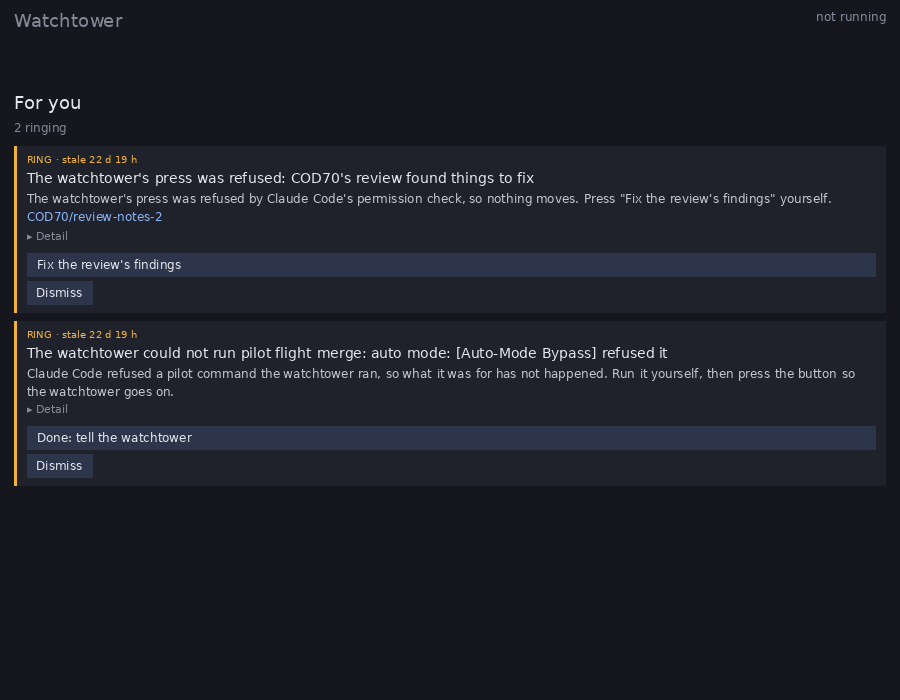
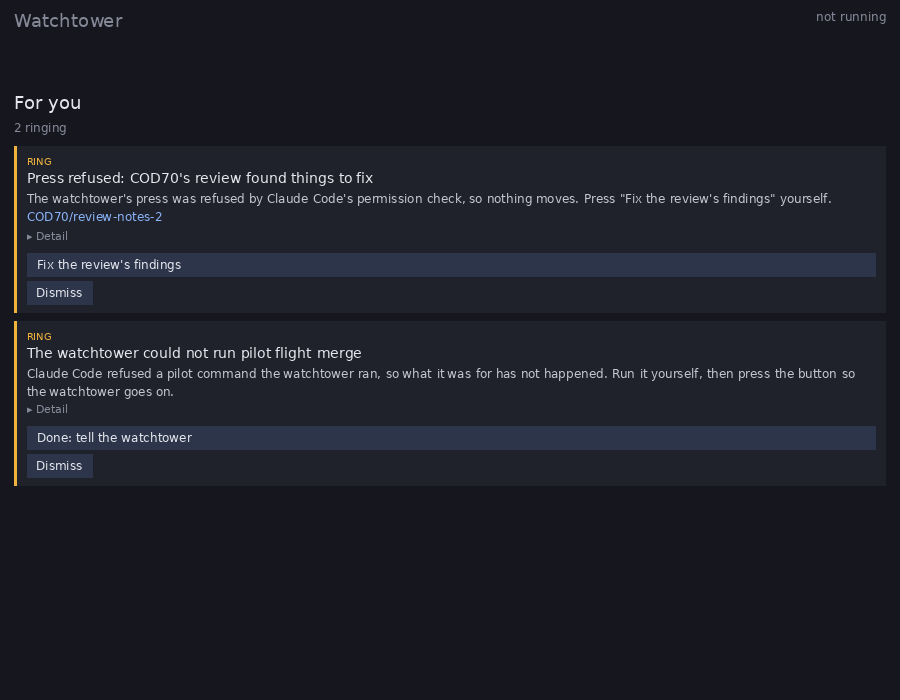
Round 4 review fixes for #988: the button reaches the current watchtower, quoted lines are no commands, short titles
- "Done: tell the watchtower" is a Tell to the watchtower target, which finds the watchtower current when it is pressed (the card may
  wait hours and the watchtower be replaced); the card always rings.
- The CLI counts as the command word only at a boundary outside quotes, so a quoted multi-line argument (a commit body with a line
  "Pilot is now…", a comment with "pilot answer …") is no command.
- The MCP road reads a value as words as McpServer does: an array (pilot answer's choice is Words) is its items, and array
  arguments are no longer dropped.
- Titles keep to 70: "The watchtower could not run pilot <command>", and a refused press is "Press refused: <title>" when it fits,
  else "Press refused: "<button>"", else "The watchtower's press was refused", with the card's own title in the detail.
- RingJudge: a ring verdict on a card that rang meanwhile neither adds its lead nor rewords it, and a wording asked before a card's
  title changed is not applied.
- Captures drawn a minute after the ring, not "stale 22 d".

Changed region(s): [[0.0311, 0.21, 0.5911, 0.27], [0.4044, 0.48, 0.7467, 0.51], [0.0311, 0.45, 0.0622, 0.48]]

diff --git a/src/Pilot.Node/Flights/Watchtower.Refused.cs b/src/Pilot.Node/Flights/Watchtower.Refused.cs
@@ -15,12 +15,18 @@ public sealed partial class Watchtower
     /// <summary>The ringing card of a pilot command of the watchtower that was refused, when it pressed no card's button.</summary>
     public const string RefusedKind = "watchtower-refused";
 
-    /// <summary>What the title of a card whose press was refused starts with.</summary>
-    public const string RefusedPrefix = "The watchtower's press was refused: ";
+    /// <summary>What the title of a card whose press was refused starts with, when the card's own title fits after it.</summary>
+    public const string RefusedPrefix = "Press refused: ";
+
+    /// <summary>The title of a card whose press was refused when its own title does not fit after <see cref="RefusedPrefix"/>.</summary>
+    public const string RefusedTitle = "The watchtower's press was refused";
+
+    // CardLint's longest title: the card's title is never cut, so a longer one is replaced, not shortened.
+    private const int MaxTitle = 70;
 
     private void Refused(string command, string reason)
     {
-        if (PilotVerb().Match(command) is not { Success: true } call)
+        if (PilotCall(command) is not { } call)
         {
             // Not the node's verb (a git call, a file outside its folder): the watchtower finds another way, and it is not a press.
             return;
@@ -45,10 +51,17 @@ public sealed partial class Watchtower
             var press = label is not null ? $"press \"{label}\" yourself"
                 : card.Choices.Length > 0 ? $"press the button it chose yourself ({string.Join(", ", card.Choices.Select(c => $"\"{c.Label}\""))})"
                 : "answer it yourself";
-            var was = card.Title.StartsWith(RefusedPrefix, StringComparison.Ordinal) ? card.Title[RefusedPrefix.Length..] : card.Title;
+            // The title says so in 70 characters: the prefix before the card's own title when it fits, else before the button, else the
+            // plain words; a card refused before keeps the title it was given then. A title that was replaced is kept in the detail.
+            var refusedBefore = card.Title.StartsWith(RefusedPrefix, StringComparison.Ordinal) || card.Title == RefusedTitle;
+            var title = refusedBefore ? card.Title
+                : (RefusedPrefix + card.Title).Length <= MaxTitle ? RefusedPrefix + card.Title
+                : label is not null && $"{RefusedPrefix}\"{label}\"".Length <= MaxTitle ? $"{RefusedPrefix}\"{label}\""
+                : RefusedTitle;
             var detail = WithoutLeads(card.Detail);
-            state.UpdateCard(card.Id, RefusedPrefix + was,
-                $"{WhatToDo}{press}. The watchtower pressed it at {at} and {reason} refused it, so nothing moves until you do."
+            var replaced = !refusedBefore && title != RefusedPrefix + card.Title ? $"\n\nThe card was: {card.Title}" : "";
+            state.UpdateCard(card.Id, title,
+                $"{WhatToDo}{press}. The watchtower pressed it at {at} and {reason} refused it, so nothing moves until you do.{replaced}"
                     + (string.IsNullOrWhiteSpace(detail) ? "" : "\n\n" + detail),
                 card.Choices, card.Link,
                 // The panel shows the summary, not the detail: it says the refusal, not the kind's usual sentence the watchtower was to act on.
@@ -63,13 +76,14 @@ public sealed partial class Watchtower
         var words = rest.Split((char[])[' ', '\t'], StringSplitOptions.RemoveEmptyEntries);
         var first = name == verb ? 0 : 1;
         var on = words.Length > first && !words[first].StartsWith('-') ? "/" + words[first].Trim('"', '\'') : "";
-        // The one press that moves it once the person has done it: the watchtower hears so and goes on from the result.
-        IReadOnlyList<CardChoice> choices = Current() is { } tower
-            ? [new CardChoice { Label = DoneMyselfLabel, Verb = Verbs.Say, Target = Verbs.SessionTarget(tower.Id), Args = [$"The person did it themselves after Claude Code refused your `pilot {name}`: carry on from what it did (pilot status, pilot cards)."] }]
-            : [];
-        state.RaiseCard(choices.Count > 0 ? CardBin.Ring : CardBin.ForYou, RefusedKind, $"{Verbs.WatchtowerTarget}/refused/{name.Replace(' ', '-')}{on}",
-            $"The watchtower could not run pilot {name}: {reason} refused it",
-            $"{WhatToDo}run it yourself, or do what it was for another way, then press \"{DoneMyselfLabel}\". Nothing it was meant to move moves until then.\n\nIt tried, at {at}:\n{command.Trim()}",
+        // The one press that moves it once the person has done it: told to the watchtower that is current when it is pressed (the card may
+        // wait hours, and the watchtower be replaced meanwhile), which goes on from the result.
+        IReadOnlyList<CardChoice> choices =
+            [new CardChoice { Label = DoneMyselfLabel, Verb = Verbs.Tell, Target = Verbs.WatchtowerTarget, Args = [$"The person did it themselves after Claude Code refused your `pilot {name}`: carry on from what it did (pilot status, pilot cards)."] }];
+        // The title is the command, short; what refused it is in the detail.
+        state.RaiseCard(CardBin.Ring, RefusedKind, $"{Verbs.WatchtowerTarget}/refused/{name.Replace(' ', '-')}{on}",
+            $"The watchtower could not run pilot {name}",
+            $"{WhatToDo}run it yourself, or do what it was for another way, then press \"{DoneMyselfLabel}\". It was refused by {reason}, so nothing it was meant to move moves until then.\n\nIt tried, at {at}:\n{command.Trim()}",
             choices);
         LogStream($"the watchtower's pilot {name} was refused ({reason}): a card rings");
     }
@@ -124,10 +138,34 @@ public sealed partial class Watchtower
 
     private const string WhatToDo = "What to do: ";
 
-    // The node's CLI as the command word (at the start, or after && ; | & ( or a line break, as PowerShell's & "…" calls it), by name or
-    // by a path to it, with or without .exe and quotes, and its verb: "pilot answer c1 1", & "C:/…/pilot.exe" flight merge PIL1 abc.
-    // Not a folder named pilot inside another command's words: "git -C C:/…/sharpastro/pilot push" is git's.
-    [GeneratedRegex(@"(?:^|[;&|(\r\n])\s*(?:&\s*)?(?:""(?:[^""\r\n]*[/\\])?pilot(?:\.exe)?""|'(?:[^'\r\n]*[/\\])?pilot(?:\.exe)?'|(?:[^\s""';&|()]*[/\\])?pilot(?:\.exe)?)\s+(?<verb>[a-z][a-z-]*)(?<rest>[^\r\n]*)", RegexOptions.IgnoreCase)]
+    // The node's CLI as the command word: at the start, or after an unquoted && ; | & ( or line break (as PowerShell's & "…" calls it).
+    // Not a folder named pilot inside another command's words ("git -C C:/…/sharpastro/pilot push" is git's), and not a line of a quoted
+    // argument (a "git commit -m" whose body has a line "Pilot is now quiet…", a gh comment's line "pilot answer c1 1").
+    private static Match? PilotCall(string command)
+    {
+        var quote = '\0';
+        for (var i = 0; i < command.Length; i++)
+        {
+            if ((i == 0 || (quote == '\0' && command[i - 1] is ';' or '&' or '|' or '(' or '\r' or '\n')) && PilotVerb().Match(command, i) is { Success: true } call)
+            {
+                return call;
+            }
+            var c = command[i];
+            if (quote != '\0')
+            {
+                quote = c == quote ? '\0' : quote;
+            }
+            else if (c is '"' or '\'')
+            {
+                quote = c;
+            }
+        }
+        return null;
+    }
+
+    // The CLI by name or by a path to it, with or without .exe and quotes, and its verb, from where PilotCall puts it: "pilot answer c1 1",
+    // & "C:/…/pilot.exe" flight merge PIL1 abc.
+    [GeneratedRegex(@"\G\s*(?:&\s*)?(?:""(?:[^""\r\n]*[/\\])?pilot(?:\.exe)?""|'(?:[^'\r\n]*[/\\])?pilot(?:\.exe)?'|(?:[^\s""';&|()]*[/\\])?pilot(?:\.exe)?)\s+(?<verb>[a-z][a-z-]*)(?<rest>[^\r\n]*)", RegexOptions.IgnoreCase)]
     private static partial Regex PilotVerb();
 
     [GeneratedRegex(@"^\s+(?<sub>[a-z][a-z-]*)(?=\s|$)")]

diff --git a/src/Pilot.Node.Tests/WatchtowerChatTests.Refused.cs b/src/Pilot.Node.Tests/WatchtowerChatTests.Refused.cs
@@ -65,12 +65,31 @@ public sealed partial class WatchtowerChatTests
         process.Emit(JsonSerializer.Serialize(new
         {
             type = "assistant",
-            message = new { role = "assistant", content = new object[] { new { type = "tool_use", id = "p1", name = "mcp__pilot__answer", input = new { choice = "1", why = "round-3", card = card.Id } } } },
+            message = new { role = "assistant", content = new object[] { new { type = "tool_use", id = "p1", name = "mcp__pilot__answer", input = new { choice = new[] { "1" }, why = "round-3", card = card.Id } } } },
         }));
         process.Emit(ShellResult("p1", AutoModeRefusal, error: true));
         await UntilAsync(() => _state.Cards(openOnly: true).Single(c => c.Id == card.Id).Bin == CardBin.Ring, "the card to ring");
 
+        // The choice as the schema advertises it (Words, an array of strings), with an option beside it, and the card before it.
         _state.Cards(openOnly: true).Single(c => c.Id == card.Id).Detail.ShouldNotBeNull().ShouldStartWith("What to do: press \"Fix the review's findings\" yourself.");
+    }
+
+    [Fact]
+    public async Task ACardWhoseTitleDoesNotFitAfterThePrefixGetsAShortOneAndKeepsItsOwnInTheDetail()
+    {
+        var process = await StreamIdleAsync();
+        const string Long = "PIL1234/a-rather-long-leg-name's worker has been idle for 3 min with 0 of 6 steps";
+        var card = _state.RaiseCard(CardBin.ForYou, "worker-idle", "flight/PIL1234/a-rather-long-leg-name", Long, null,
+            [new CardChoice { Label = "Nudge it to finish", Verb = Verbs.Say, Target = "session/s1" }]);
+
+        process.Emit(ShellCall("l1", $"pilot answer {card.Id} 1"));
+        process.Emit(ShellResult("l1", AutoModeRefusal, error: true));
+        await UntilAsync(() => _state.Cards(openOnly: true).Single(c => c.Id == card.Id).Bin == CardBin.Ring, "the card to ring");
+
+        var rung = _state.Cards(openOnly: true).Single(c => c.Id == card.Id);
+        rung.Title.ShouldBe(Watchtower.RefusedPrefix + "\"Nudge it to finish\"");
+        rung.Title.Length.ShouldBeLessThanOrEqualTo(70);
+        rung.Detail.ShouldNotBeNull().ShouldContain("The card was: " + Long);
     }
 
     [Fact]
@@ -88,6 +107,11 @@ public sealed partial class WatchtowerChatTests
         // The brief's own shape for git elsewhere, in this very repo: a folder named pilot is not the node's CLI.
         process.Emit(ShellCall("gitc", "git -C C:/Users/x/source/repos/sharpastro/pilot push origin main"));
         process.Emit(ShellResult("gitc", AutoModeRefusal, error: true));
+        // A quoted argument's lines are not commands: a commit body with a line "Pilot is now quiet…", a comment with "pilot answer …".
+        process.Emit(ShellCall("msg", "git commit -m \"Quiet the second ring\n\nPilot is now quiet when a card rings twice.\""));
+        process.Emit(ShellResult("msg", AutoModeRefusal, error: true));
+        process.Emit(ShellCall("gh", $"gh pr comment 1 --body 'Tried:\npilot answer {card.Id} 1'"));
+        process.Emit(ShellResult("gh", AutoModeRefusal, error: true));
 
         // A refused pilot verb that pressed no card's button rings one of its own, with the command to run.
         process.Emit(ShellCall("m1", @"""C:\Users\x\AppData\Local\pilot2\bin\pilot.exe"" flight merge PIL1 abc123"));
@@ -96,9 +120,9 @@ public sealed partial class WatchtowerChatTests
 
         var refused = _state.Cards(openOnly: true).Single(c => c.Kind == Watchtower.RefusedKind);
         refused.Bin.ShouldBe(CardBin.Ring);
-        refused.Title.ShouldBe("The watchtower could not run pilot flight merge: auto mode: [Auto-Mode Bypass] refused it");
+        refused.Title.ShouldBe("The watchtower could not run pilot flight merge");
         refused.Detail.ShouldNotBeNull().ShouldContain("flight merge PIL1 abc123");
-        refused.Choices.Select(c => (c.Label, c.Verb)).ShouldBe([(Watchtower.DoneMyselfLabel, Verbs.Say)], "a ringing card offers the press that moves it");
+        refused.Choices.Select(c => (c.Label, c.Verb)).ShouldBe([(Watchtower.DoneMyselfLabel, Verbs.Tell)], "a ringing card offers the press that moves it");
 
         // Another flight's refused merge is a card of its own; the person's own no, and a verb's words, ring nothing more.
         process.Emit(ShellCall("m2", "pilot flight merge PIL2 def456"));
@@ -109,9 +133,9 @@ public sealed partial class WatchtowerChatTests
         process.Emit(ShellResult("say", AutoModeRefusal, error: true));
         await UntilAsync(() => _state.Cards(openOnly: true).Count(c => c.Kind == Watchtower.RefusedKind) == 3, "the second merge's and the say's cards");
         _state.Cards(openOnly: true).Where(c => c.Kind == Watchtower.RefusedKind).Select(c => c.Title).ShouldBe(
-            ["The watchtower could not run pilot flight merge: auto mode: [Auto-Mode Bypass] refused it",
-             "The watchtower could not run pilot flight merge: auto mode: [Auto-Mode Bypass] refused it",
-             "The watchtower could not run pilot say: auto mode: [Auto-Mode Bypass] refused it"], ignoreOrder: true);
+            ["The watchtower could not run pilot flight merge",
+             "The watchtower could not run pilot flight merge",
+             "The watchtower could not run pilot say"], ignoreOrder: true);
         _state.Cards(openOnly: true).Single(c => c.Id == card.Id).Bin.ShouldBe(CardBin.ForYou, "its press ran");
     }
 }

diff --git a/src/Pilot.Gui.Tests/RefusedCardCaptureTests.cs b/src/Pilot.Gui.Tests/RefusedCardCaptureTests.cs
@@ -15,23 +15,28 @@ namespace Pilot.Gui.Tests;
 /// </summary>
 public sealed class RefusedCardCaptureTests
 {
+    // The cards rang a minute ago, as the person sees a fresh ring: the views' clock is a minute past it.
+    private static readonly DateTimeOffset Fresh = Live.At;
+
+    private static DateTimeOffset Now() => Fresh.AddMinutes(1);
+
     private static readonly CardRow[] Cards =
     [
         new()
         {
-            Id = "c9919", Bin = CardBin.Ring, Kind = "review-changes", Subject = "flight/COD70", State = CardState.Open, At = Live.At,
-            Title = "The watchtower's press was refused: COD70's review found things to fix",
+            Id = "c9919", Bin = CardBin.Ring, Kind = "review-changes", Subject = "flight/COD70", State = CardState.Open, At = Fresh,
+            Title = "Press refused: COD70's review found things to fix",
             Summary = "The watchtower's press was refused by Claude Code's permission check, so nothing moves. Press \"Fix the review's findings\" yourself.",
             Detail = "What to do: press \"Fix the review's findings\" yourself. The watchtower pressed it at 23:37 and auto mode: [Auto-Mode Bypass] refused it, so nothing moves until you do.\n\n## Blocking\n\n- The \"map with no transforms inherits the base's orientation\" rule is applied to ISO `tmap` files too, and it turns a case round 2 reconstructed as HDR into a silent SDR fallback.",
             Choices = [new CardChoice { Label = "Fix the review's findings", Verb = Verbs.GoAround, Target = "flight/COD70/review-notes-2" }],
         },
         new()
         {
-            Id = "c9930", Bin = CardBin.Ring, Kind = "watchtower-refused", Subject = "watchtower/refused/flight-merge/PIL1", State = CardState.Open, At = Live.At,
-            Title = "The watchtower could not run pilot flight merge: auto mode: [Auto-Mode Bypass] refused it",
+            Id = "c9930", Bin = CardBin.Ring, Kind = "watchtower-refused", Subject = "watchtower/refused/flight-merge/PIL1", State = CardState.Open, At = Fresh,
+            Title = "The watchtower could not run pilot flight merge",
             Summary = "Claude Code refused a pilot command the watchtower ran, so what it was for has not happened. Run it yourself, then press the button so the watchtower goes on.",
-            Detail = "What to do: run it yourself, or do what it was for another way, then press \"Done: tell the watchtower\". Nothing it was meant to move moves until then.\n\nIt tried, at 23:41:\nC:/Users/SebastianGodelet/AppData/Local/pilot2/bin/pilot.exe flight merge PIL1 c834afcc0",
-            Choices = [new CardChoice { Label = "Done: tell the watchtower", Verb = Verbs.Say, Target = "session/34c2b436" }],
+            Detail = "What to do: run it yourself, or do what it was for another way, then press \"Done: tell the watchtower\". It was refused by auto mode: [Auto-Mode Bypass], so nothing it was meant to move moves until then.\n\nIt tried, at 23:41:\nC:/Users/SebastianGodelet/AppData/Local/pilot2/bin/pilot.exe flight merge PIL1 c834afcc0",
+            Choices = [new CardChoice { Label = "Done: tell the watchtower", Verb = Verbs.Tell, Target = "watchtower" }],
         },
     ];
 
@@ -41,7 +46,7 @@ public sealed class RefusedCardCaptureTests
     public void TheRefusedCardsDrawNothingOverTextAndNoWordPastThePanel(int width)
     {
         using var renderer = new RgbaImageRenderer(1, 1);
-        var view = new CardsView<RgbaImage>(renderer) { FontPath = SessionsCapture.FontPath };
+        var view = new CardsView<RgbaImage>(renderer) { FontPath = SessionsCapture.FontPath, Clock = Now };
         var arranged = Layout.Engine.Arrange(view.Tree(CardsScreen.From([.. Cards])), new Rect<float>(0, 0, width, 3000), new PixelMeasureContext<RgbaImage>(renderer, SessionsCapture.FontPath, 1f));
 
         TextOverlap.Faults(arranged).Select(f => f.Line).ShouldBeEmpty();
@@ -53,7 +58,7 @@ public sealed class RefusedCardCaptureTests
         }
         const int height = 700;
         using var shot = new RgbaImageRenderer((uint)width, height);
-        new CardsView<RgbaImage>(shot) { FontPath = SessionsCapture.FontPath }.Render(CardsScreen.From([.. Cards]), new RectF32(0, 0, width, height));
+        new CardsView<RgbaImage>(shot) { FontPath = SessionsCapture.FontPath, Clock = Now }.Render(CardsScreen.From([.. Cards]), new RectF32(0, 0, width, height));
         File.WriteAllBytes(Path.Combine(Path.GetDirectoryName(capture) ?? ".", $"refused-cards-{width}.png"), PngWriter.Encode(shot.Surface.Pixels, width, height));
     }
 }

diff --git a/src/Pilot.Node/Flights/RingJudge.cs b/src/Pilot.Node/Flights/RingJudge.cs
@@ -100,8 +100,12 @@ public sealed class RingJudge(NodeState state, Func<IBrain?> brain)
                 rang = true;
                 return;
             }
-            Ring(card, verdict is null ? null : verdict.Action);
+            var ringsNow = Ring(card, verdict is null ? null : verdict.Action);
             rang = true;
+            if (!ringsNow)
+            {
+                return;
+            }
             // A design card's words are the reviewer's questions and the options its buttons cannot say (PrReviews.DesignSummary), which is what the person
             // answers: a rewording "of what happened" would replace them, up to 600 characters where the panel draws 240.
             if (verdict is not null && card.Kind != PrReviews.DesignKind && brain() is { } b)
@@ -175,15 +179,18 @@ public sealed class RingJudge(NodeState state, Func<IBrain?> brain)
     /// <summary>The card, as it is now, when it is still open; null when it closed or is gone.</summary>
     private CardRow? Open(string id) => state.Cards(openOnly: true).FirstOrDefault(c => c.Id == id);
 
-    private void Ring(CardRow card, string? action)
+    // Whether this verdict rang it: false for a card closed meanwhile, or one that rang while its verdict was pending (a press of it the
+    // watchtower was refused), which already leads with what to do and is not reworded either.
+    private bool Ring(CardRow card, string? action)
     {
-        if (Open(card.Id) is not { } now)
+        if (Open(card.Id) is not { Bin: not CardBin.Ring } now)
         {
-            return;
+            return false;
         }
         // The one action goes in front of the detail, so the card says what it rings for.
         var detail = action is { Length: > 0 } ? $"What to do: {action}" + (string.IsNullOrWhiteSpace(now.Detail) ? "" : "\n\n" + now.Detail) : now.Detail;
         state.UpdateCard(now.Id, now.Title, detail, now.Choices, now.Link, bin: CardBin.Ring);
+        return true;
     }
 
     private void Quiet(CardRow card, string reason)
@@ -219,6 +226,12 @@ public sealed class RingJudge(NodeState state, Func<IBrain?> brain)
             if (title.Length == 0 || title.Contains('\n') || !CardSummaries.Usable(summary) || Open(card.Id) is not { } latest)
             {
                 Log?.Invoke($"ring: the wording of {card.Id} was not usable; it keeps its words");
+                return;
+            }
+            if (latest.Title != now.Title)
+            {
+                // Its title changed while the wording was asked (a refused press of it rang it): a wording of the old card would drop that.
+                Log?.Invoke($"ring: {card.Id} changed while it was reworded; it keeps its new words");
                 return;
             }
             state.UpdateCard(latest.Id, title, latest.Detail, latest.Choices, latest.Link, summary: summary);

diff --git a/src/Pilot.Node/Sessions/StreamSession.cs b/src/Pilot.Node/Sessions/StreamSession.cs
@@ -894,9 +894,18 @@ public sealed class StreamSession : IAsyncDisposable
                 // The tool's name is the command's path joined by '_' (McpServer). Its input is by name, in the model's order, options among the
                 // arguments: a card and its choice are put where pilot answer takes them, and an option (why, words, node) is no word of the line.
                 var path = name[PilotMcpTool.Length..].Split('_');
-                string? Word(string key) => input.TryGetProperty(key, out var v) ? v.ValueKind == JsonValueKind.String ? v.GetString() : v.GetRawText() : null;
-                string[] given = Word("card") is { } card ? [card, .. Word("choice") is { } choice ? [choice.Contains(' ') ? $"\"{choice}\"" : choice] : Array.Empty<string>()]
-                    : [.. input.EnumerateObject().Where(p => !McpOptions.Contains(p.Name) && p.Value.ValueKind == JsonValueKind.String).Select(p => p.Value.GetString() ?? "")];
+                // A value as words, as McpServer.Values reads it: a string is one, an array (pilot answer's choice is Words, a string[] in
+                // the schema) is its items, a number or a boolean as JSON writes it.
+                static IEnumerable<string> Words(JsonElement v) => v.ValueKind switch
+                {
+                    JsonValueKind.String => [v.GetString() ?? ""],
+                    JsonValueKind.Array => v.EnumerateArray().SelectMany(Words).ToArray(),
+                    JsonValueKind.Null or JsonValueKind.Undefined => [],
+                    _ => [v.GetRawText()],
+                };
+                string? Word(string key) => input.TryGetProperty(key, out var v) && string.Join(' ', Words(v)) is { Length: > 0 } words ? words : null;
+                string[] given = Word("card") is { } card ? [card, .. Word("choice") is { } choice ? [choice] : Array.Empty<string>()]
+                    : [.. input.EnumerateObject().Where(p => !McpOptions.Contains(p.Name)).SelectMany(p => Words(p.Value))];
                 yield return (id, string.Join(' ', ["pilot", .. path, .. given]));
             }
         }

diff --git a/src/Pilot.Node.Tests/BrainUsesTests.cs b/src/Pilot.Node.Tests/BrainUsesTests.cs
@@ -111,6 +111,26 @@ public sealed class BrainUsesTests
     }
 
     [Fact]
+    public async Task ARingVerdictAndItsWordingLeaveACardThatRangMeanwhileAsTheRefusalWordedIt()
+    {
+        // The other half: the brain says ring, and words it, after a refused press already rang the card with its own lead and title.
+        var (state, _) = Judged(new()
+        {
+            ["ring"] = """{"ring": true, "action": "Send the leg round", "reason": "It needs the person."}""",
+            ["wording"] = """{"title": "COD70 needs a fix", "summary": "The review found a problem. Send the leg round."}""",
+        });
+        var card = state.RaiseCard(CardBin.ForYou, "review-changes", "flight/COD70", "COD70's review found things to fix", "the rule applies to tmap too",
+            [new CardChoice { Label = "Fix the review's findings", Verb = Verbs.GoAround, Target = "flight/COD70/review-notes-2" }]);
+        const string Refused = "What to do: press \"Fix the review's findings\" yourself.\n\nthe rule applies to tmap too";
+        state.UpdateCard(card.Id, Watchtower.RefusedPrefix + card.Title, Refused, card.Choices, null, bin: CardBin.Ring);
+
+        await state.RingJudge!.JudgeAsync(card, Ct);
+
+        var now = state.Cards(openOnly: true).Single(c => c.Id == card.Id);
+        (now.Bin, now.Title, now.Detail).ShouldBe((CardBin.Ring, Watchtower.RefusedPrefix + "COD70's review found things to fix", Refused));
+    }
+
+    [Fact]
     public async Task ACardTheBrainJudgesQuietStaysInForYouWithItsReason()
     {
         var (state, brain) = Judged(new() { ["ring"] = """{"ring": false, "action": "", "reason": "The node sends a fresh worker by itself."}""" });

diff --git a/src/Pilot.Node.Tests/CardKindCatalog.cs b/src/Pilot.Node.Tests/CardKindCatalog.cs
@@ -213,7 +213,7 @@ internal static class CardKindCatalog
         new("watchtower-stopped", "Ring|Handled", [Tower], "WatchtowerTests.OneTheUsageLimitStoppedIsResumedAfterTheReset", "the watchtower's session row is stopped by the API with no reset to resume at", [nameof(Verbs.RestartWatchtower)]),
         new("watchtower-waits", "Handled", [Tower, TowerStream], "StartGateTests.TheWatchtowerKeptByTheNodeWaitsForTheWindowAndStartsOnceItHasResetButARestartAskedForGoesAhead"),
         new("watchtower-ask", "ForYou", [Asks], "WatchtowerChatTests.APromptAndAQuestionEachRaiseACardWhoseButtonsAnswerThemAndTheCardClosesOnTheChatsAnswer"),
-        new("watchtower-refused", "Ring|ForYou", [Refused], "WatchtowerChatTests.Refused.ARefusedPilotCommandRingsACardOfItsOwnAndARefusedOtherCallOrAPressThatRanRingsNothing", "the watchtower's stream shows Claude Code refused its pilot command, which pressed no card's button", [nameof(Verbs.Say)]),
+        new("watchtower-refused", "Ring", [Refused], "WatchtowerChatTests.Refused.ARefusedPilotCommandRingsACardOfItsOwnAndARefusedOtherCallOrAPressThatRanRingsNothing", "the watchtower's stream shows Claude Code refused its pilot command, which pressed no card's button", [nameof(Verbs.Tell)]),
         new("watchtower-resumed", "Handled", [Tower], SourcePinned),
         new("watchtower-started", "Handled", [Tower], SourcePinned),
         new("watchtower-duplicate", "Handled", [Tower], "OneWatchtowerTests.StartingOneStopsAnotherLiveWatchtowerRowAndSaysSo"),
